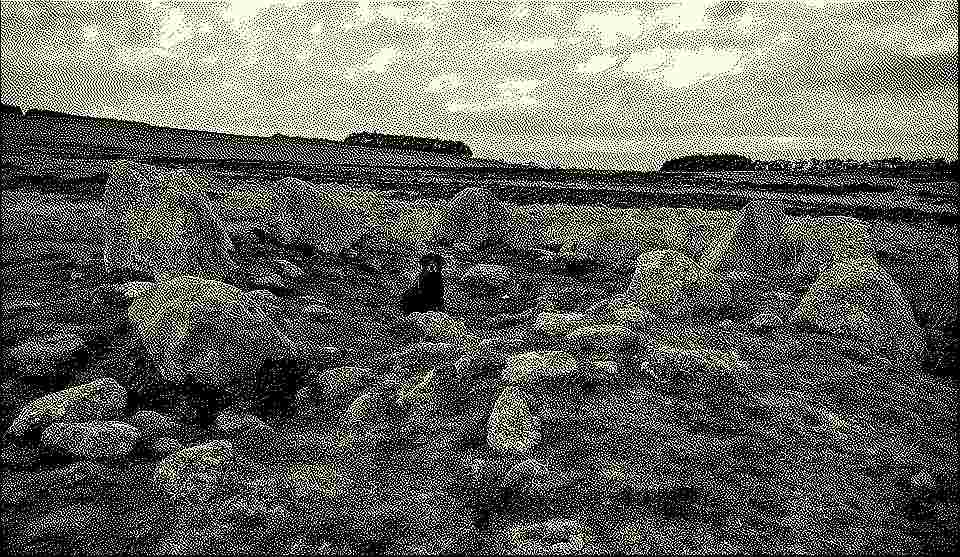
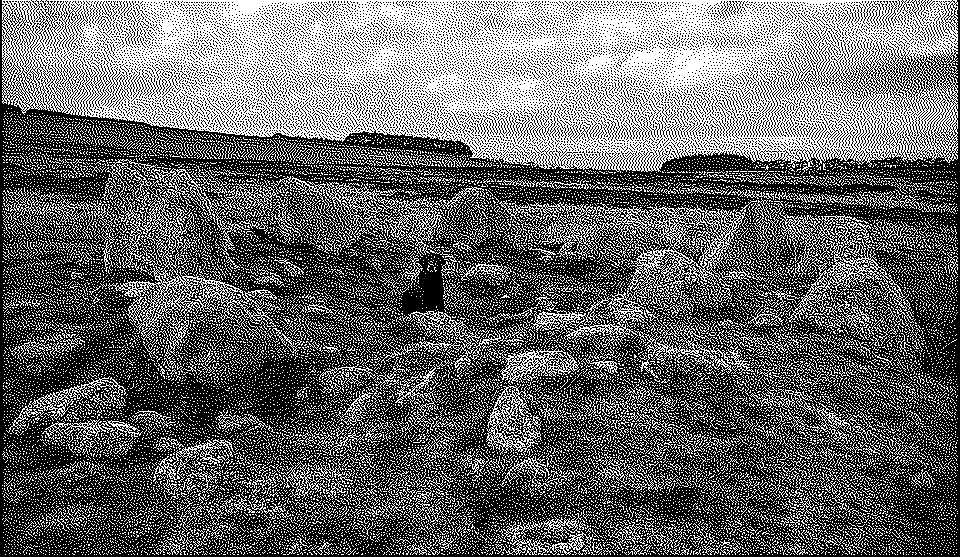
mobile friendly and coloured images

diff --git a/index.html b/index.html
@@ -3,21 +3,24 @@
 <head>
     <meta charset="UTF-8">
     <title>'Cairn Circle'</title>
+    <meta name="viewport" content="width=device-width, initial-scale=1">
     <style>
     body{
-        background: rgb(255, 252, 223);
+        background: #f1f8fe;
         color: black;
         padding: 12px;
         font-family: Sans-Serif;
         font-size: 14pt;
-        width: 960px;
+        max-width: 960px;
+        display: block;
     }
-    p{
+    p.img{
         mix-blend-mode: multiply;
+        background-color: #ff8888;
     }
     img{
-      max-width: 960px;
-
+        max-width: 100%;
+        mix-blend-mode: hard-light;
     }
     footer{
         font-size: 0.75rem;
@@ -71,11 +74,11 @@
     <h1>'Cairn Circle'</h1><h4>26th May 2019</h4><p>OS Grid Ref: <a href="https://osmaps.ordnancesurvey.co.uk/54.59103,-2.78437,18/pin">SD 94827 22566</a><br />
 Geo URI: <code>geo:54.5910,2.78437</code><br />
 Latitude: 53° 41' 58&quot; N<br />
-Longitude: 2° 4' 47&quot; W</p><p>Up on Moor Divock/Askham Fell along with the <a href="https://fiskurgit.github.io/blog/20042019/">Cop Stone</a>, the Cockpit Circle and others. Deserves to have a name, but apparently doesn't.</p><p><img src="askham_fell_mini_circle_dithered.jpg" alt="Ring Cairn Askham Fell" /></p>
+Longitude: 2° 4' 47&quot; W</p><p>Up on Moor Divock/Askham Fell along with the <a href="https://fiskurgit.github.io/blog/20042019/">Cop Stone</a>, the Cockpit Circle and others. Deserves to have a name, but apparently doesn't.</p><p class="img"><img src="askham_fell_mini_circle_dithered.jpg" alt="Ring Cairn Askham Fell" /></p>
 </div>
 
 <footer>
-    Inspired by <a href="https://solar.lowtechmagazine.com">LOW←TECH MAGAZINE</a> | Icon by <a href="https://thenounproject.com/term/panels/2696981/">Icongeek26</a> | Page size including images: 125.9 kb | <a href="https://fiskurgit.github.io/">Fisk Static Site</a>
+    Inspired by <a href="https://solar.lowtechmagazine.com">LOW←TECH MAGAZINE</a> | Icon by <a href="https://thenounproject.com/term/panels/2696981/">Icongeek26</a> | Page size including images: 259.8 kb | <a href="https://fiskurgit.github.io/">Fisk Static Site</a>
 </footer>
 </body>
 

diff --git a/src/fisk/staticsite/FiskStaticSite.kt b/src/fisk/staticsite/FiskStaticSite.kt
@@ -87,6 +87,9 @@ class Generator {
 
         var output = templateHtml.replace("{{ content }}", convertedHtml)
 
+        //Update images for css
+        output = output.replace("<p><img src=\"", "<p class=\"img\"><img src=\"")
+
         //Extract title from Markdown
         val firstTitleNode = parsedTree.children.firstOrNull { it.type.name =="ATX_1" }
         val title = when {
@@ -154,23 +157,24 @@ class Generator {
         val destination = BufferedImage(resized.width, resized.height, BufferedImage.TYPE_INT_RGB)
         val destinationImpl = FilterImageImpl(destination)
 
-        Filter.FilterAtkinson().process(FilterImageImpl(resized), destinationImpl)
+        Filter.FilterJarvisJudiceNinke().process(FilterImageImpl(resized), destinationImpl)
 
         val outputFile = File(saveDir, source.substring(0, source.lastIndexOf(".")) + "_dithered.jpg")
         val dithered = destinationImpl.image
+
+
+        //Uncompressed png
         //ImageIO.write(dithered, "png", outputFile)
 
 
         val jpegParams = JPEGImageWriteParam(null)
         jpegParams.compressionMode = ImageWriteParam.MODE_EXPLICIT
-        jpegParams.compressionQuality = 0.1f
+        jpegParams.compressionQuality = 0.5f
 
         val writer = ImageIO.getImageWritersByFormatName("jpg").next()
         writer.output = FileImageOutputStream(outputFile)
         writer.write(null, IIOImage(dithered, null, null), jpegParams)
 
-
-        //ImageIO.write(dithered, "jpeg", outputFile)
 
         return outputFile.name
     }

diff --git a/_template.html b/_template.html
@@ -3,21 +3,24 @@
 <head>
     <meta charset="UTF-8">
     <title>{{ title }}</title>
+    <meta name="viewport" content="width=device-width, initial-scale=1">
     <style>
     body{
-        background: rgb(255, 252, 223);
+        background: #f1f8fe;
         color: black;
         padding: 12px;
         font-family: Sans-Serif;
         font-size: 14pt;
-        width: 960px;
+        max-width: 960px;
+        display: block;
     }
-    p{
+    p.img{
         mix-blend-mode: multiply;
+        background-color: #ff8888;
     }
     img{
-      max-width: 960px;
-
+        max-width: 100%;
+        mix-blend-mode: hard-light;
     }
     footer{
         font-size: 0.75rem;

diff --git a/src/fisk/staticsite/Filter.kt b/src/fisk/staticsite/Filter.kt
@@ -15,7 +15,7 @@ abstract class Filter {
         var threshold = 128
 
         const val BLACK = 0x000000
-        const val WHITE = 0xfffce2
+        const val WHITE = 0xFFFFFF
     }
 
     abstract fun process(source: FilterImage, destination: FilterImage)
